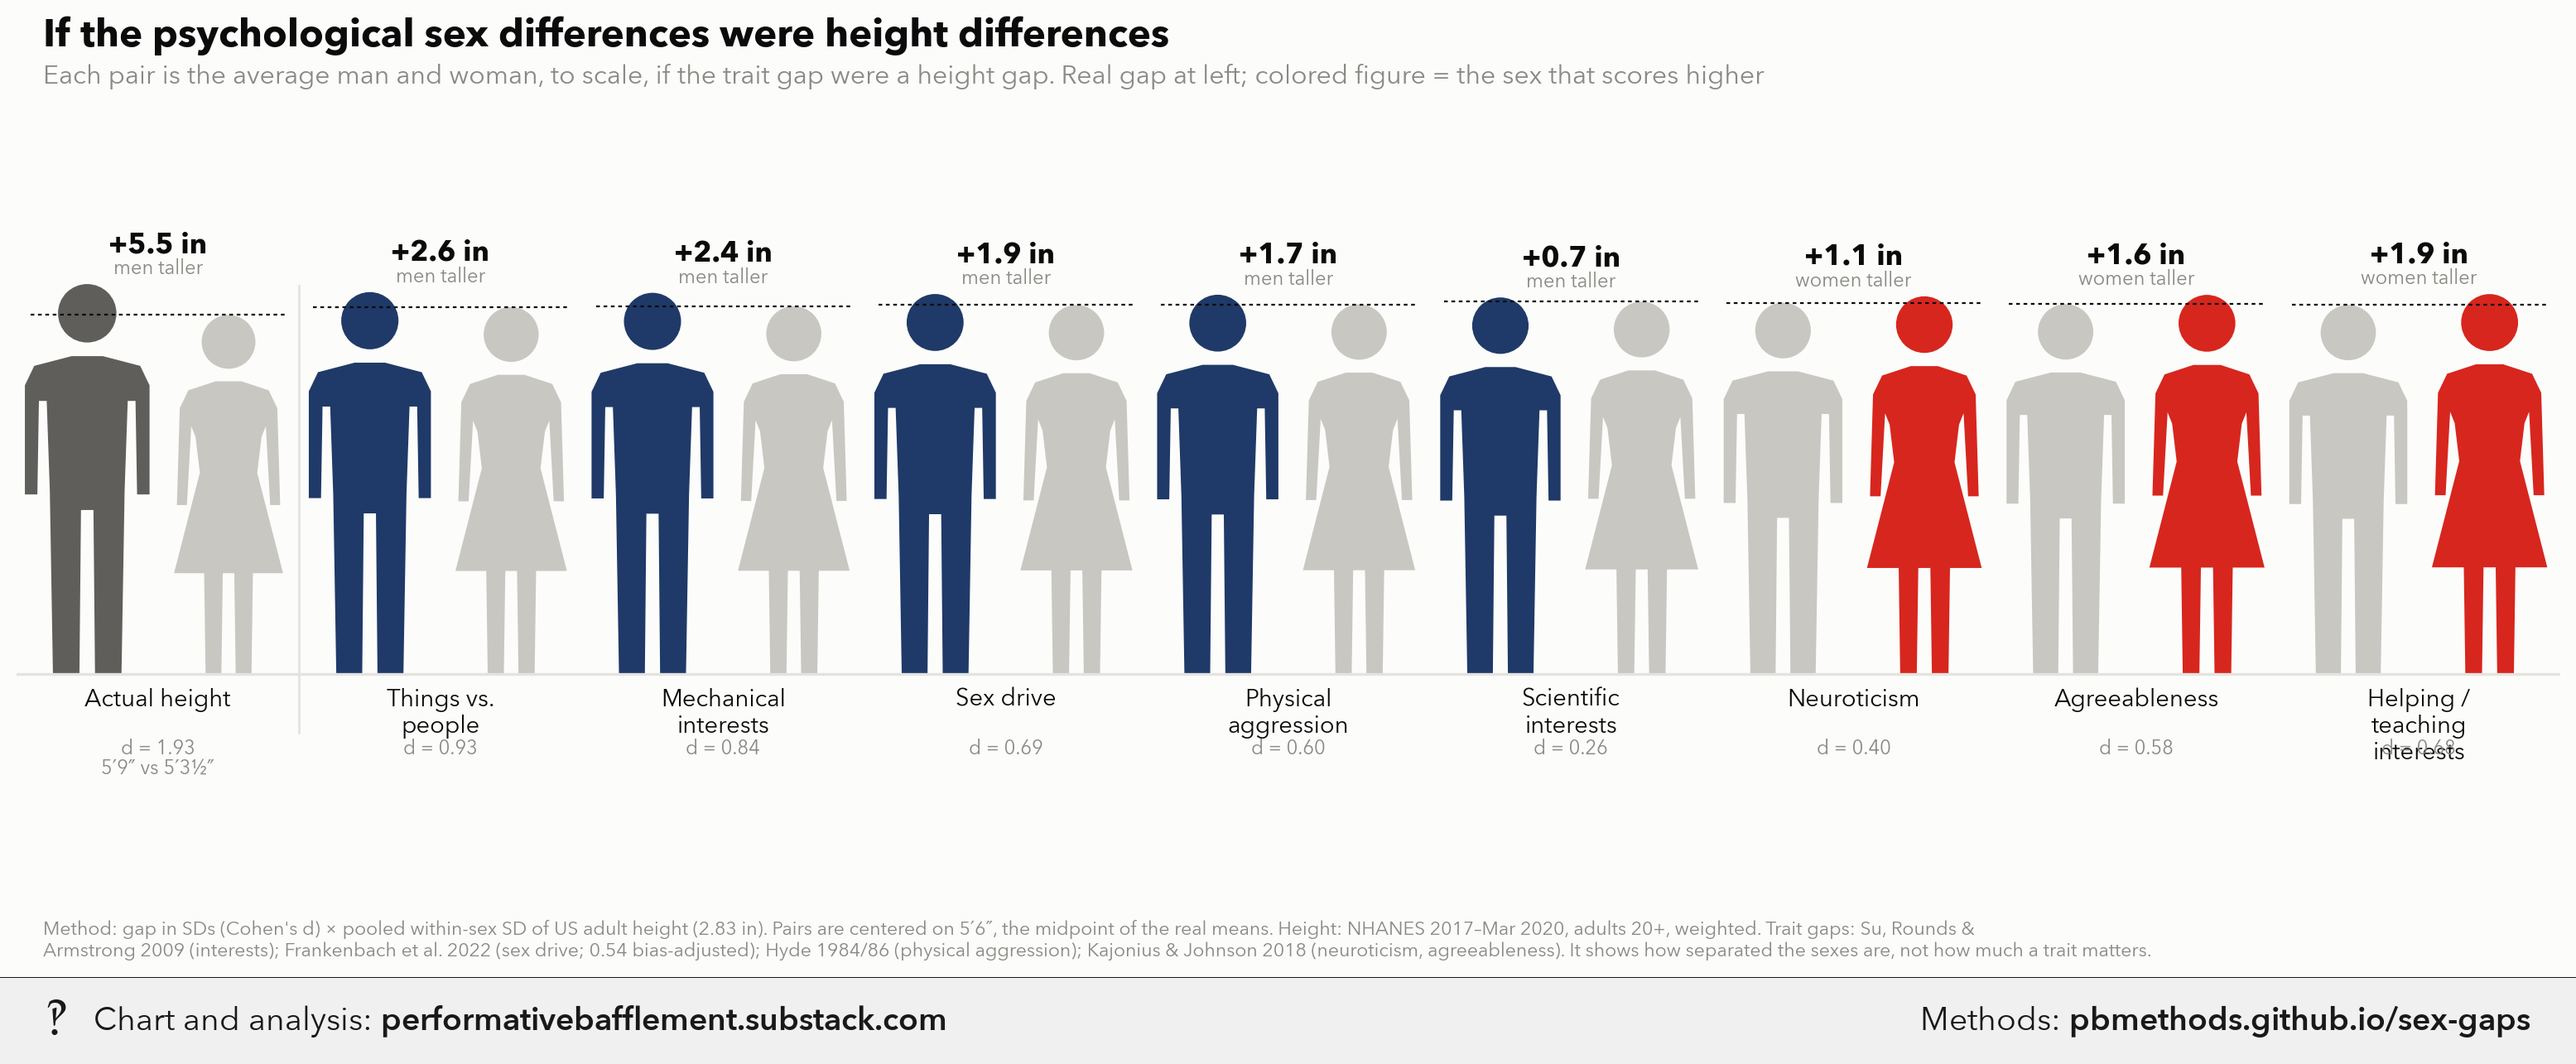
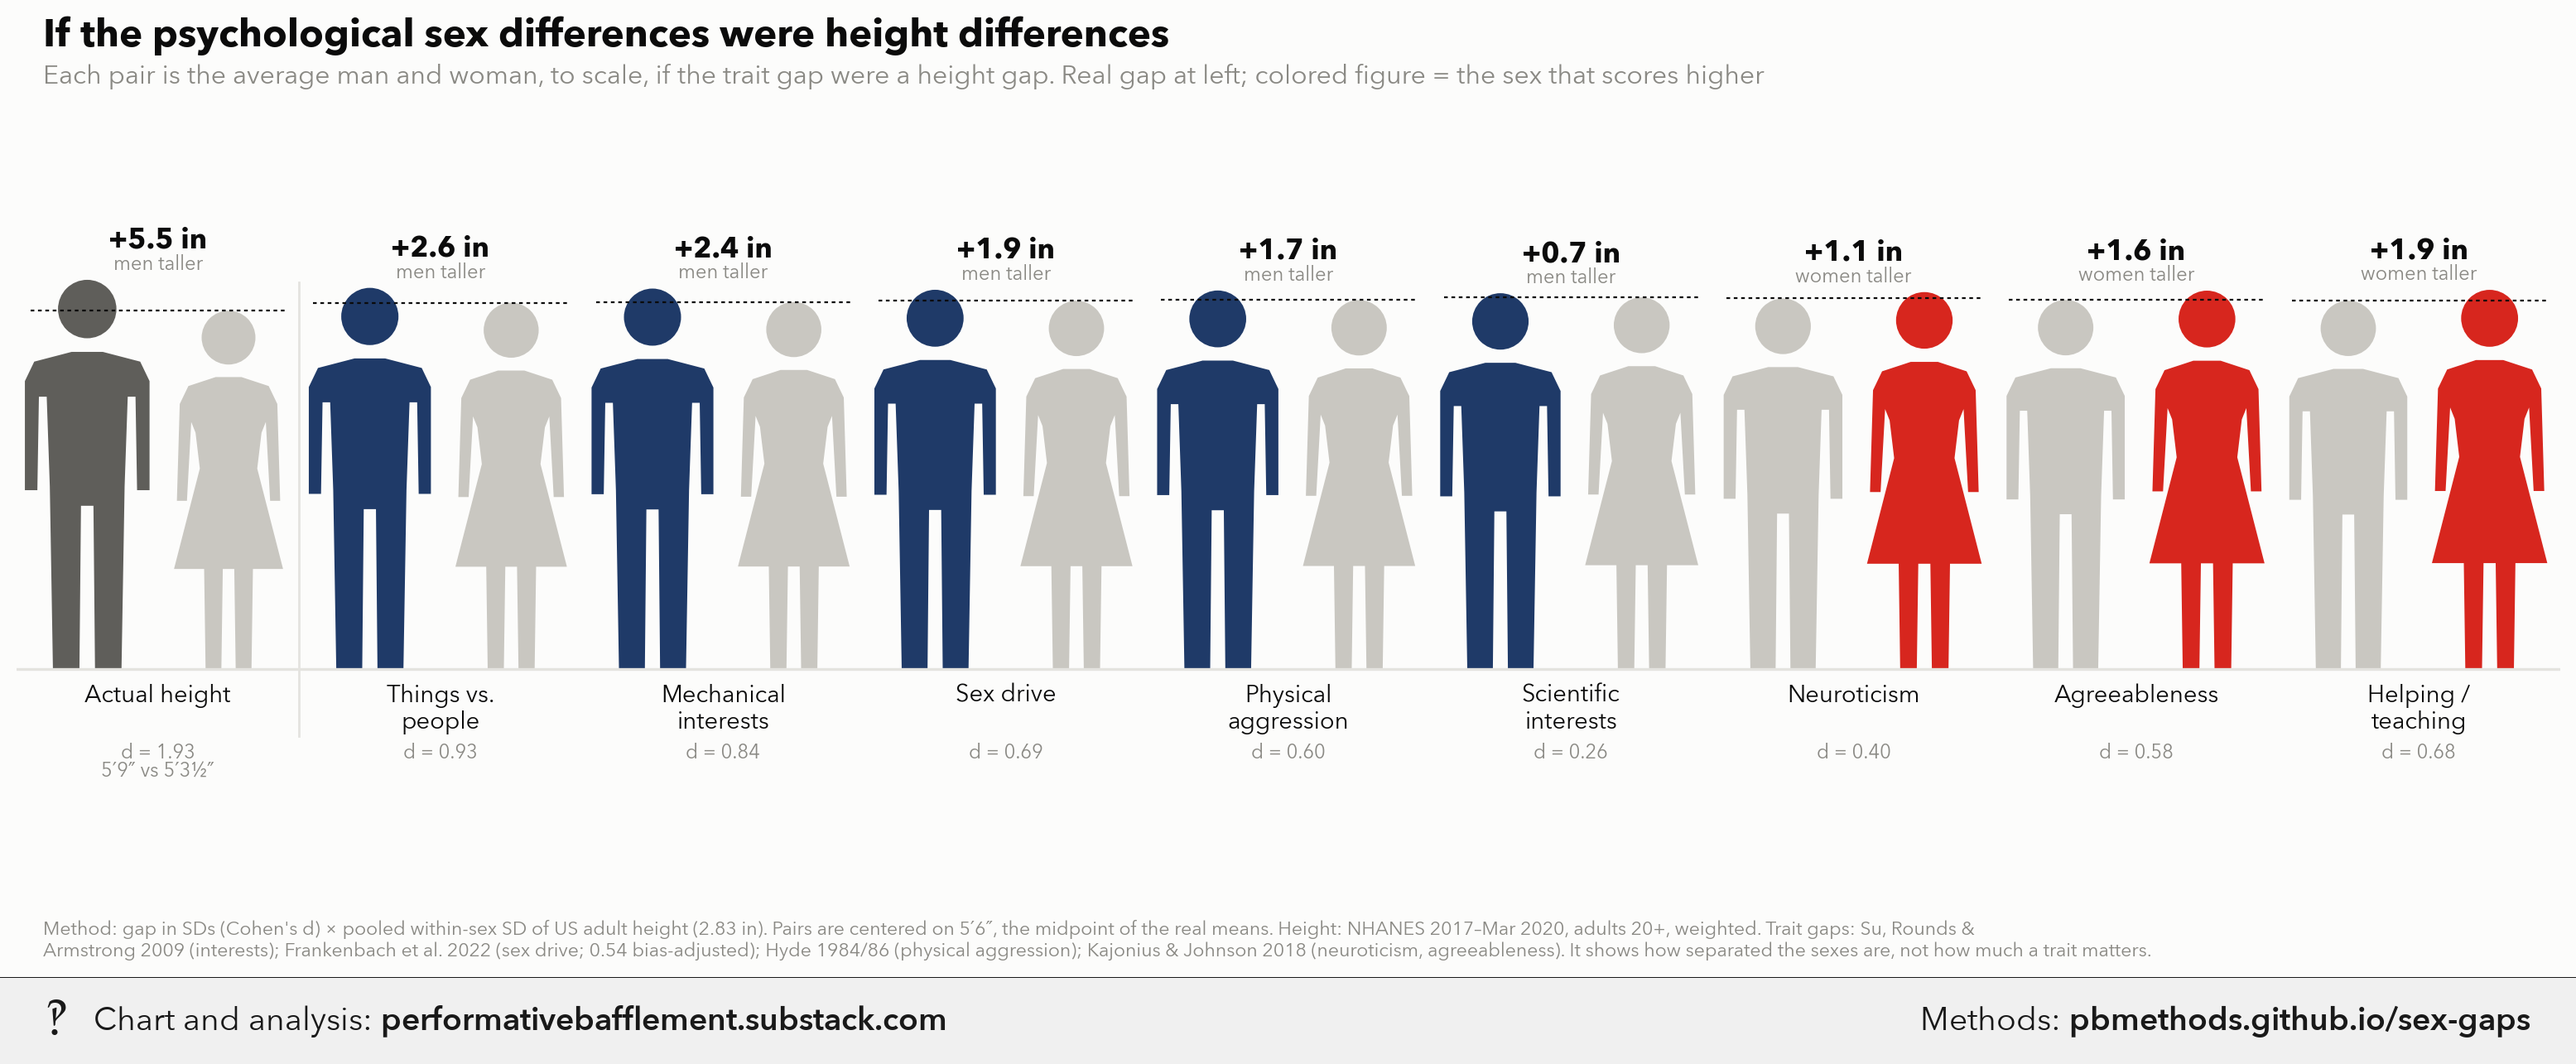
Update sex-gaps

diff --git a/sex-gaps/index.html b/sex-gaps/index.html
@@ -574,7 +574,7 @@ WOMAN = [(-.045, .815), (.045, .815), (.14, .79), (.17, .74), (.18, .47), (.145,
 WIDTH = .8  # horizontal squeeze so pairs don't touch
 LABELS = {&quot;Interest in things vs. people&quot;: &quot;Things vs. people&quot;, &quot;Mechanical / 'Realistic' interests&quot;: &quot;Mechanical interests&quot;,
           &quot;Scientific / 'Investigative' interests&quot;: &quot;Scientific interests&quot;,
-          &quot;Interest in 'Social' work (helping, teaching)&quot;: &quot;Helping / teaching interests&quot;}
+          &quot;Interest in 'Social' work (helping, teaching)&quot;: &quot;Helping / teaching&quot;}
 
 
 def figure(a, shape, x, h, color):
@@ -610,14 +610,14 @@ def main():
                color=MUTED)
         name = &quot;\n&quot;.join(textwrap.wrap(LABELS.get(lab, lab), 15))
         a.text(cx, -2.5, name, ha=&quot;center&quot;, va=&quot;top&quot;, fontsize=10.5, color=INK, linespacing=1.15)
-        a.text(cx, -11.5, f&quot;d = {abs(d):.2f}&quot;, ha=&quot;center&quot;, va=&quot;top&quot;, fontsize=8.5, color=MUTED)
+        a.text(cx, -13, f&quot;d = {abs(d):.2f}&quot;, ha=&quot;center&quot;, va=&quot;top&quot;, fontsize=8.5, color=MUTED)
         if i == 0:
-            a.text(cx, -15, f&quot;{ft_in(hm)} vs {ft_in(hw)}&quot;, ha=&quot;center&quot;, va=&quot;top&quot;, fontsize=8.5, color=MUTED)
+            a.text(cx, -16.3, f&quot;{ft_in(hm)} vs {ft_in(hw)}&quot;, ha=&quot;center&quot;, va=&quot;top&quot;, fontsize=8.5, color=MUTED)
     a.axhline(0, color=GRID, lw=1.2)
     a.axvline(pitch / 2, ymin=.08, ymax=.92, color=GRID, lw=1)
     a.set_aspect(&quot;equal&quot;)
     a.set_xlim(-pitch / 2, (len(rows) - .5) * pitch)
-    a.set_ylim(-18, mid + 10)
+    a.set_ylim(-19.5, mid + 10)
     a.axis(&quot;off&quot;)
 
     fig.suptitle(&quot;If the psychological sex differences were height differences&quot;,

diff --git a/sex-gaps/methods.md b/sex-gaps/methods.md
@@ -584,7 +584,7 @@ WOMAN = [(-.045, .815), (.045, .815), (.14, .79), (.17, .74), (.18, .47), (.145,
 WIDTH = .8  # horizontal squeeze so pairs don't touch
 LABELS = {"Interest in things vs. people": "Things vs. people", "Mechanical / 'Realistic' interests": "Mechanical interests",
           "Scientific / 'Investigative' interests": "Scientific interests",
-          "Interest in 'Social' work (helping, teaching)": "Helping / teaching interests"}
+          "Interest in 'Social' work (helping, teaching)": "Helping / teaching"}
 
 
 def figure(a, shape, x, h, color):
@@ -620,14 +620,14 @@ def main():
                color=MUTED)
         name = "\n".join(textwrap.wrap(LABELS.get(lab, lab), 15))
         a.text(cx, -2.5, name, ha="center", va="top", fontsize=10.5, color=INK, linespacing=1.15)
-        a.text(cx, -11.5, f"d = {abs(d):.2f}", ha="center", va="top", fontsize=8.5, color=MUTED)
+        a.text(cx, -13, f"d = {abs(d):.2f}", ha="center", va="top", fontsize=8.5, color=MUTED)
         if i == 0:
-            a.text(cx, -15, f"{ft_in(hm)} vs {ft_in(hw)}", ha="center", va="top", fontsize=8.5, color=MUTED)
+            a.text(cx, -16.3, f"{ft_in(hm)} vs {ft_in(hw)}", ha="center", va="top", fontsize=8.5, color=MUTED)
     a.axhline(0, color=GRID, lw=1.2)
     a.axvline(pitch / 2, ymin=.08, ymax=.92, color=GRID, lw=1)
     a.set_aspect("equal")
     a.set_xlim(-pitch / 2, (len(rows) - .5) * pitch)
-    a.set_ylim(-18, mid + 10)
+    a.set_ylim(-19.5, mid + 10)
     a.axis("off")
 
     fig.suptitle("If the psychological sex differences were height differences",
